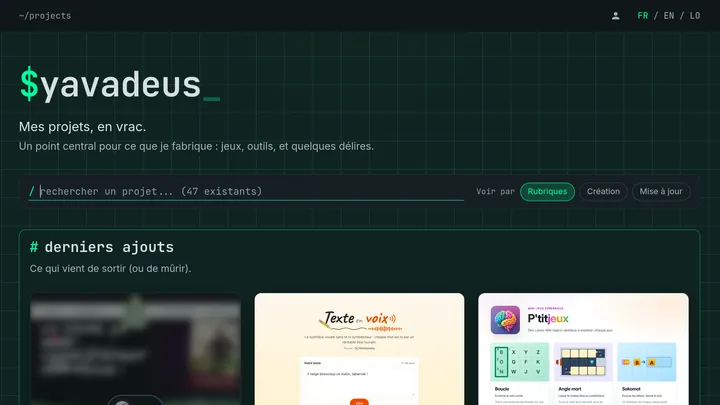
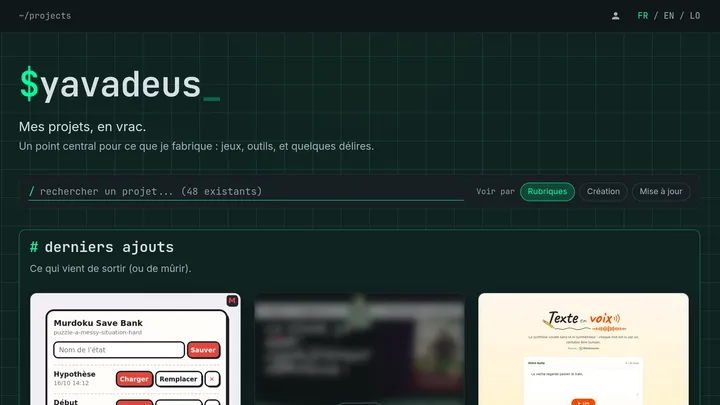
add rubik

Changed region(s): [[0.0306, 0.7111, 0.9778, 1.0]]

diff --git a/src/data/projects.ts b/src/data/projects.ts
@@ -115,6 +115,7 @@ export const projects: Record<string, ProjectOverride> = {
   'pom-poche': { category: 'delires', openMinded: true },
   'texte-en-voix': { category: 'outils' },
   'murdoku-saver-extention': { category: 'outils' },
+  rubiksolver: { category: 'outils' },
   // CLI_INSERT_PROJECTS (do not remove) -- `make curate` appends entries here
 };
 
